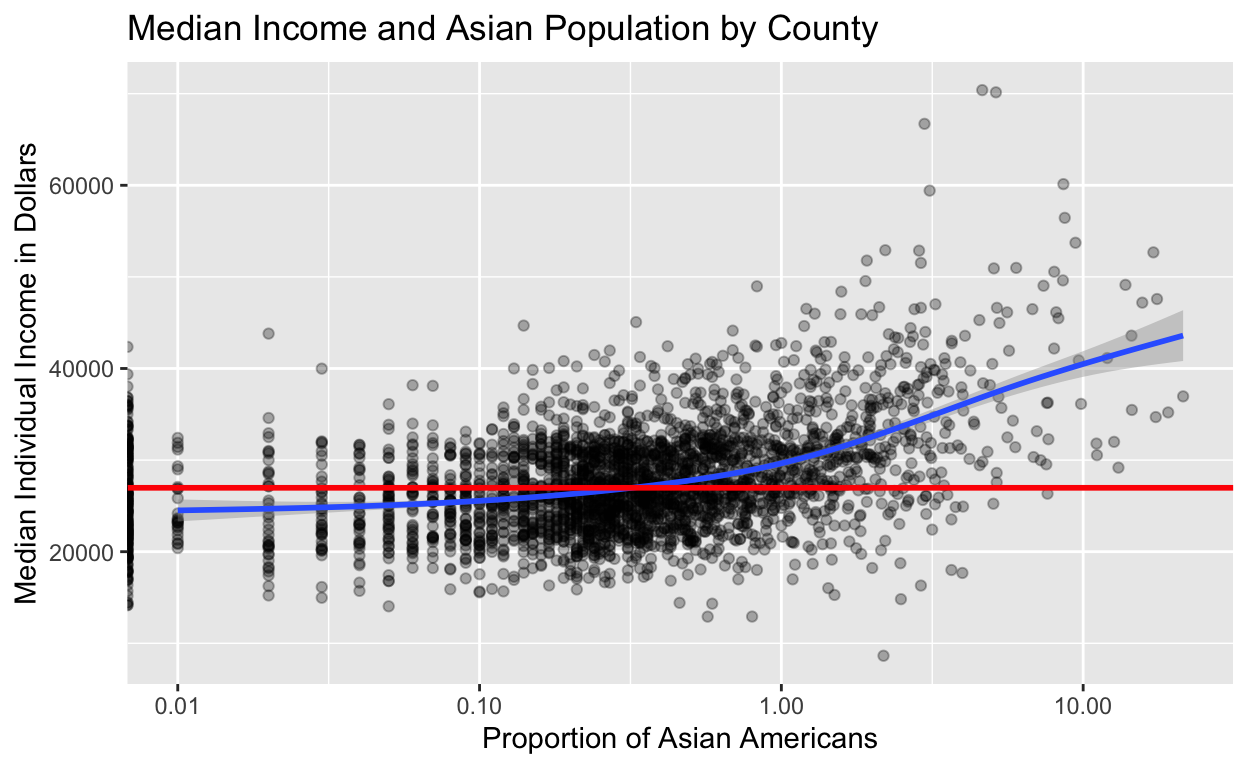
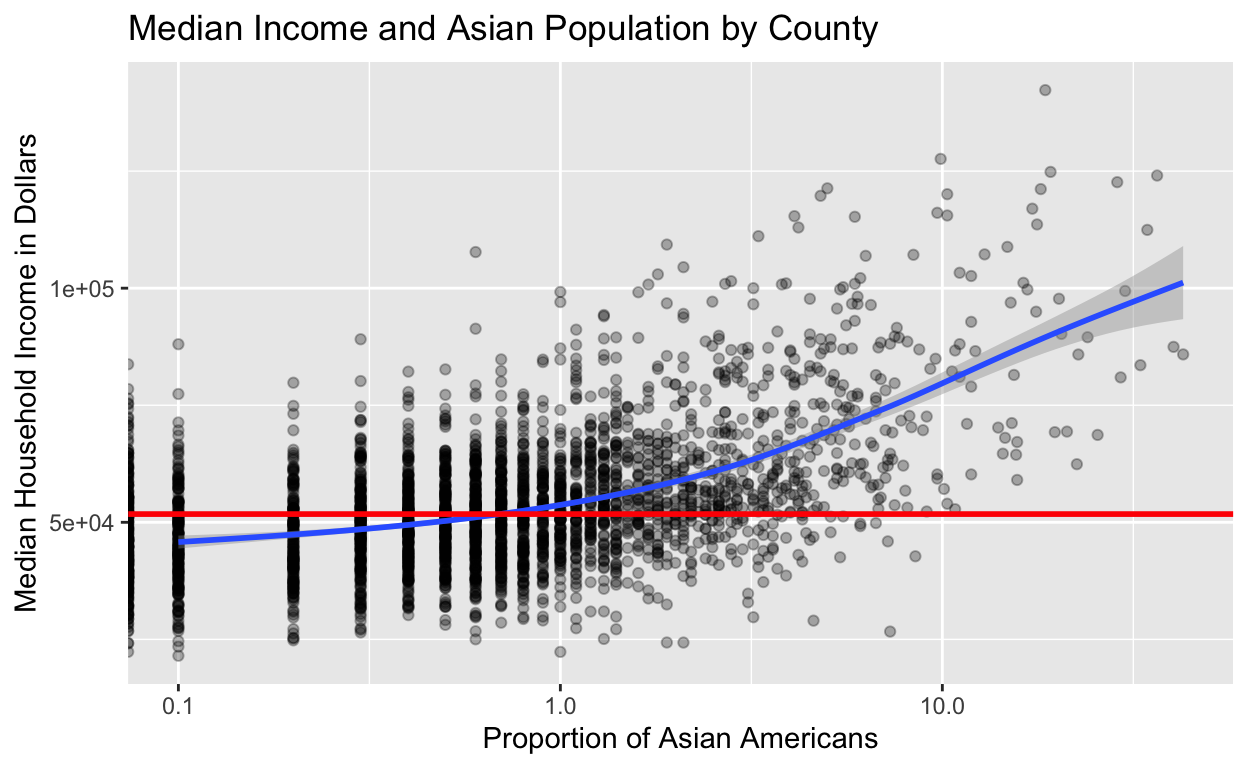
Updated introduction for final submission

diff --git a/index.html b/index.html
@@ -1544,63 +1544,62 @@ code span.wa { color: #5e5e5e; font-style: italic; } /* Warning */
 </div>
 
 <div class="d-article">
-<h2 id="project-thoughts">Project thoughts</h2>
-<p>I’m not really sure what to do for the final project or what the scope of it is. I did have an idea about the mayoral race in Minneapolis. One of the candidates, Omar Fateh, was Somali, but I saw somewhere that only about half of the Somali population in Minneapolis voted for him and the rest voted for the incumbent Jacob Frey. I wanted to see if I could find data for this and why he split his own community’s vote.</p>
-<h2 id="my-research-question">My Research Question</h2>
-<p>Unfortunately, I was not able to find any data for my above thoughts about the Minneapolis election. I decided to transition to another question relating to a statement I have often heard: “Asian-Americans are the model minority”. I wonder if there is any statistical backing to this. We can already see from the census data I imported that Asian-Americans tend to have higher than average educational-attainment and career earnings, but does this translate to their communities. I intend to use the county_complete data set to examine if a higher proportion of Asians in a community will lead to a higher median income. My hypothesis is that they will. Because of their individual education and earnings, I believe the presence of Asian-Americans in a community will economically benefit that community. My explanatory variable will be the percentage of the population in a county that is Asian. My outcome variable will be the county’s median household income. If there’s time, I can also examine other economic or social metrics like unemployment rate, percentage under the poverty line, crime rate, and life expectancy. A positive regression coefficient would support my hypothesis, while one that is negative or close to zero would show no association or a negative association between the presence of Asians and median income.</p>
+<h2 id="introduction">Introduction</h2>
+<p>This research project explores if there is any statistical backing to the claim “Asian-Americans are the model minority”. That statement portrays Asian-Americans as diligent, hardworking, and compliant. This claim is often based on data that shows that Asian-American individuals have higher educational and career achievement than individuals from other ethnic groups. If Asian-Americans are this “model minority”, I want to explore if their diligence is also beneficial to the community they live in. To do this, I will use data from every county in the United States. This is an observational study. My hypothesis is that a greater proportion of Asian-Americans in a county will be associated with a greater median household income.</p>
+<p>This model minority myth is a very pervasive belief about Asian-Americans. It ignores nuance, and assumes all subgroups of Asians-Americans from Pakistanis to Koreans to Indonesians are the same. By assuming Asian-Americans are naturally more talented, it ignores and marginalizes the struggles and racism they face. Furthermore, it leads to the perception that Asian-Americans will always succeed, which can lead to under-reporting and lack of resources to address mental health issues or poverty. My research will examine one of the economic pillars that is used to justify this label. If the relationship between Asian-American proportion and median household income is weak, it will undermine the assumption that Asian-Americans are the model minority. Conversely, if the relationship is strong, it could raise the question of whether the proportion of Asian-Americans is responsible for this or if there are confounding variables at play.</p>
 <div class="layout-chunk" data-layout="l-body">
 <div class="sourceCode">
-<pre class="sourceCode r"><code class="sourceCode r"><span><span class='fu'><a href='https://rdrr.io/r/utils/data.html'>data</a></span><span class='op'>(</span><span class='va'>county_complete</span><span class='op'>)</span></span>
-<span><span class='va'>asian</span> <span class='op'>&lt;-</span> <span class='fu'><a href='https://readr.tidyverse.org/reference/read_delim.html'>read_csv</a></span><span class='op'>(</span><span class='st'>"data/asian_breakdown.csv"</span><span class='op'>)</span></span>
-<span><span class='va'>education</span> <span class='op'>&lt;-</span> <span class='fu'><a href='https://readr.tidyverse.org/reference/read_delim.html'>read_csv</a></span><span class='op'>(</span><span class='st'>"data/educational_attainment.csv"</span><span class='op'>)</span></span></code></pre>
+<pre class="sourceCode r"><code class="sourceCode r"><span><span class='fu'><a href='https://rdrr.io/r/utils/data.html'>data</a></span><span class='op'>(</span><span class='va'>county_complete</span><span class='op'>)</span></span></code></pre>
 </div>
 </div>
-<p>I checked the output for head() and glimpse() and they both work. The reason I did not include them is because the tibble is 188 columns and would take up way too much space when I knit.</p>
 <h2 id="data-wrangling-and-visualization">Data Wrangling and Visualization</h2>
 <p>For my visualization, I want to quickly show the relationship between proportion of Asian American population and median income. While it may look like this is almost the end of answering the question I had, I still have many confounding variables to tackle to more strongly establish a causatory relationship. I’m going to create a scatterplot with Asian proportion on the x-axis and median individual income on the y-axis. The county_complete data set already has these variables neatly stored, so I don’t have to do any wrangling to get the plot. However, since the assignment specifically requests I do some cleaning, I’m going to plot an average line and calculate the coefficient of determination to help see if there is a causatory relationship between my two variables.</p>
+<p>I will focus on the asian_2019 variable, which measures the percentage of that county to be of Asian heritage in 2019, and median_household_income_2019, which is the median income of all households in the county in 2019. I will run a regression analysis and run a hypothesis test to see if the slope is greater than zero. Even though I have the population data (all US counties), I will still run a hypothesis test and treat the counties as a sample of all potential communities.</p>
+<p>the county_complete data set, which has</p>
 <p>First, I’m going to calculate the median individual income for all counties.</p>
 <div class="layout-chunk" data-layout="l-body">
 <div class="sourceCode">
-<pre class="sourceCode r"><code class="sourceCode r"><span><span class='va'>county_complete</span> <span class='op'>|&gt;</span></span>
-<span>  <span class='fu'><a href='https://dplyr.tidyverse.org/reference/summarise.html'>summarize</a></span><span class='op'>(</span>med_inc <span class='op'>=</span> <span class='fu'><a href='https://rdrr.io/r/stats/median.html'>median</a></span><span class='op'>(</span><span class='va'>median_individual_income_2019</span><span class='op'>)</span><span class='op'>)</span></span></code></pre>
+<pre class="sourceCode r"><code class="sourceCode r"><span><span class='va'>pop_med_inc</span> <span class='op'>&lt;-</span> <span class='va'>county_complete</span> <span class='op'>|&gt;</span></span>
+<span>  <span class='fu'><a href='https://dplyr.tidyverse.org/reference/summarise.html'>summarize</a></span><span class='op'>(</span>med_inc <span class='op'>=</span> <span class='fu'><a href='https://rdrr.io/r/stats/median.html'>median</a></span><span class='op'>(</span><span class='va'>median_household_income_2019</span><span class='op'>)</span><span class='op'>)</span> <span class='op'>|&gt;</span></span>
+<span>  <span class='fu'><a href='https://dplyr.tidyverse.org/reference/pull.html'>pull</a></span><span class='op'>(</span><span class='op'>)</span></span>
+<span><span class='va'>pop_med_inc</span></span></code></pre>
 </div>
-<pre><code>  med_inc
-1   26975</code></pre>
+<pre><code>[1] 51757.5</code></pre>
 </div>
 <p>Now, I will make a scatterplot with a smoothed line and the median line.</p>
 <div class="layout-chunk" data-layout="l-body">
 <div class="sourceCode">
-<pre class="sourceCode r"><code class="sourceCode r"><span><span class='fu'><a href='https://ggplot2.tidyverse.org/reference/ggplot.html'>ggplot</a></span><span class='op'>(</span><span class='va'>county_complete</span>, <span class='fu'><a href='https://ggplot2.tidyverse.org/reference/aes.html'>aes</a></span><span class='op'>(</span>x <span class='op'>=</span> <span class='va'>asian_2017</span>, y <span class='op'>=</span> <span class='va'>median_individual_income_2019</span><span class='op'>)</span><span class='op'>)</span> <span class='op'>+</span> </span>
+<pre class="sourceCode r"><code class="sourceCode r"><span><span class='fu'><a href='https://ggplot2.tidyverse.org/reference/ggplot.html'>ggplot</a></span><span class='op'>(</span><span class='va'>county_complete</span>, <span class='fu'><a href='https://ggplot2.tidyverse.org/reference/aes.html'>aes</a></span><span class='op'>(</span>x <span class='op'>=</span> <span class='va'>asian_2019</span>, y <span class='op'>=</span> <span class='va'>median_household_income_2019</span><span class='op'>)</span><span class='op'>)</span> <span class='op'>+</span> </span>
 <span>  <span class='fu'><a href='https://ggplot2.tidyverse.org/reference/geom_point.html'>geom_point</a></span><span class='op'>(</span>alpha <span class='op'>=</span> <span class='fl'>0.3</span><span class='op'>)</span> <span class='op'>+</span> </span>
 <span>  <span class='fu'><a href='https://ggplot2.tidyverse.org/reference/scale_continuous.html'>scale_x_log10</a></span><span class='op'>(</span><span class='op'>)</span> <span class='op'>+</span> </span>
 <span>  <span class='fu'><a href='https://ggplot2.tidyverse.org/reference/geom_smooth.html'>geom_smooth</a></span><span class='op'>(</span><span class='op'>)</span> <span class='op'>+</span> </span>
 <span>  <span class='fu'><a href='https://ggplot2.tidyverse.org/reference/labs.html'>labs</a></span><span class='op'>(</span></span>
 <span>    x <span class='op'>=</span> <span class='st'>"Proportion of Asian Americans"</span>,</span>
-<span>    y <span class='op'>=</span> <span class='st'>"Median Individual Income in Dollars"</span>,</span>
+<span>    y <span class='op'>=</span> <span class='st'>"Median Household Income in Dollars"</span>,</span>
 <span>    title <span class='op'>=</span> <span class='st'>"Median Income and Asian Population by County"</span></span>
 <span>  <span class='op'>)</span> <span class='op'>+</span> </span>
-<span>  <span class='fu'><a href='https://ggplot2.tidyverse.org/reference/geom_abline.html'>geom_hline</a></span><span class='op'>(</span>yintercept <span class='op'>=</span> <span class='fl'>26975</span>, color <span class='op'>=</span> <span class='st'>"red"</span>,  lwd <span class='op'>=</span> <span class='fl'>1</span><span class='op'>)</span></span></code></pre>
+<span>  <span class='fu'><a href='https://ggplot2.tidyverse.org/reference/geom_abline.html'>geom_hline</a></span><span class='op'>(</span>yintercept <span class='op'>=</span> <span class='va'>pop_med_inc</span>, color <span class='op'>=</span> <span class='st'>"red"</span>,  lwd <span class='op'>=</span> <span class='fl'>1</span><span class='op'>)</span></span></code></pre>
 </div>
 <p><img src="index_files/figure-html5/unnamed-chunk-4-1.png" alt="" width="624" /></p>
 </div>
 <p>Now, I will find a linear model for the line of best fit to see the coefficient of determination.</p>
 <div class="layout-chunk" data-layout="l-body">
 <div class="sourceCode">
-<pre class="sourceCode r"><code class="sourceCode r"><span><span class='va'>prop_med_fit</span> <span class='op'>&lt;-</span> <span class='fu'><a href='https://rdrr.io/r/stats/lm.html'>lm</a></span><span class='op'>(</span><span class='va'>median_individual_income_2019</span> <span class='op'>~</span> <span class='va'>asian_2017</span>, <span class='va'>county_complete</span><span class='op'>)</span></span>
+<pre class="sourceCode r"><code class="sourceCode r"><span><span class='va'>prop_med_fit</span> <span class='op'>&lt;-</span> <span class='fu'><a href='https://rdrr.io/r/stats/lm.html'>lm</a></span><span class='op'>(</span><span class='va'>median_household_income_2019</span> <span class='op'>~</span> <span class='va'>asian_2019</span>, <span class='va'>county_complete</span><span class='op'>)</span></span>
 <span><span class='va'>prop_med_fit</span></span></code></pre>
 </div>
 <pre><code>
 Call:
-lm(formula = median_individual_income_2019 ~ asian_2017, data = county_complete)
+lm(formula = median_household_income_2019 ~ asian_2019, data = county_complete)
 
 Coefficients:
-(Intercept)   asian_2017  
-      26539         1704  </code></pre>
+(Intercept)   asian_2019  
+      50093         2442  </code></pre>
 <div class="sourceCode">
 <pre class="sourceCode r"><code class="sourceCode r"><span><span class='va'>prop_med_fit_summary</span> <span class='op'>=</span> <span class='fu'><a href='https://rdrr.io/r/base/summary.html'>summary</a></span><span class='op'>(</span><span class='va'>prop_med_fit</span><span class='op'>)</span></span>
 <span><span class='va'>prop_med_fit_summary</span><span class='op'>$</span><span class='va'>r.squared</span></span></code></pre>
 </div>
-<pre><code>[1] 0.16264</code></pre>
+<pre><code>[1] 0.2322692</code></pre>
 </div>
 <h2 id="data-analysis">Data Analysis</h2>
 <p>From the regression, we can see that the intercept is 26,539. That means that the median income in a county with zero Asian American is predicted to be $26,539. The slope of 1,704 means that for every percentage point increase in the proportion of Asian Americans, the county’s median income is predicted to increase by $1,704. The r-squared values means that 16% of the variation of the dependent variable, median income, can be explained by the independent variable, proportion of Asian Americans. This means there is a small relationship between the two variables. Based on how the graph looks, this could mean there is a nonlinear relationship between the two variables.</p>
